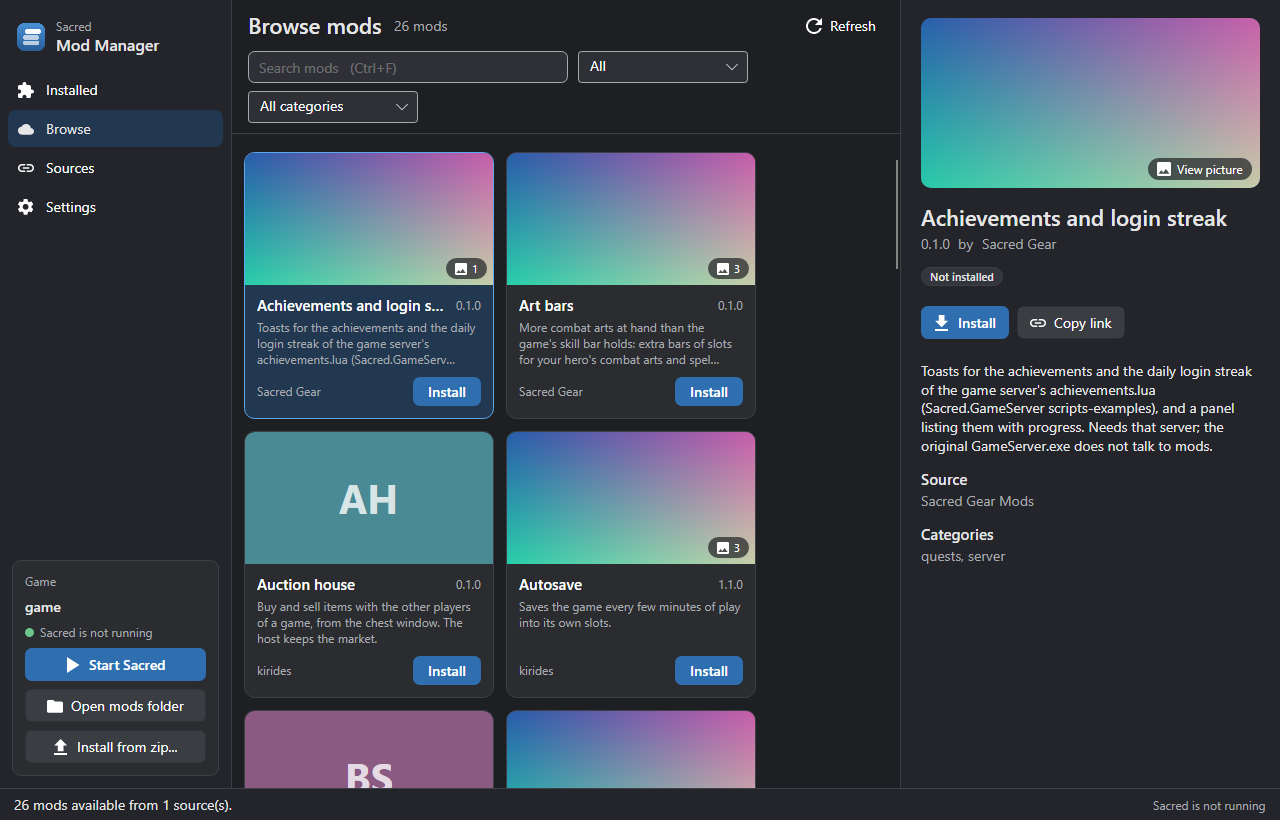
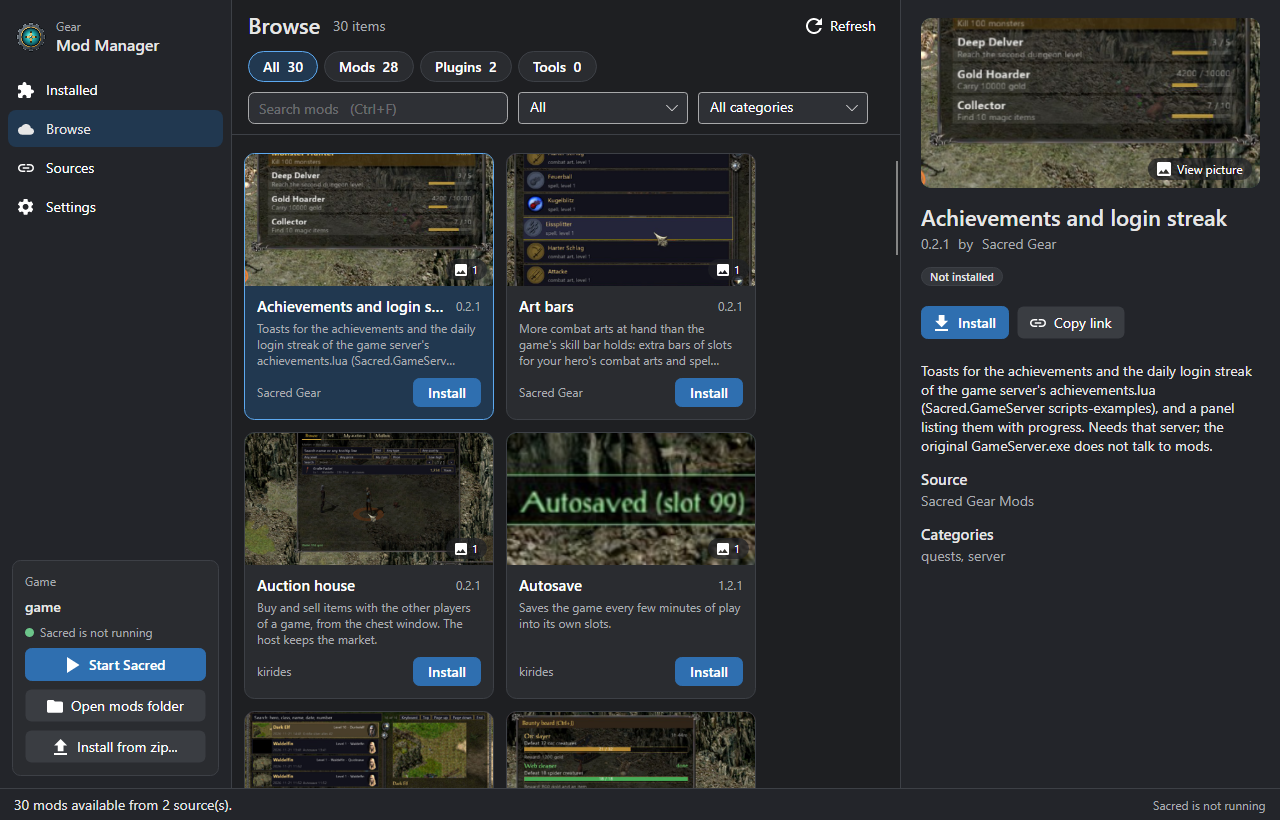
docs: beginner steps, new screenshots with real thumbnails; find the game from the manager's own folder

diff --git a/tests/SacredModManager.Tests/GameLocatorOwnFolderTests.cs b/tests/SacredModManager.Tests/GameLocatorOwnFolderTests.cs
@@ -1,0 +1,44 @@
+using SacredModManager.Core.App;
+using Xunit;
+
+namespace SacredModManager.Tests;
+
+[Collection("GameLocatorStatics")]
+public class GameLocatorOwnFolderTests
+{
+    [Fact]
+    public void AManagerThatSitsNextToSacredExeFindsTheGameWithoutBeingTold()
+    {
+        using var dir = new TempDir();
+        File.WriteAllText(dir.Combine("Sacred.exe"), "MZ");
+        string? before = GameLocator.OwnFolder;
+        try
+        {
+            GameLocator.OwnFolder = dir.Path;
+            Assert.Equal(Path.GetFullPath(dir.Path), GameLocator.Find(null));
+        }
+        finally
+        {
+            GameLocator.OwnFolder = before;
+        }
+    }
+
+    [Fact]
+    public void ASavedFolderStillWinsOverTheManagersOwn()
+    {
+        using var own = new TempDir();
+        using var saved = new TempDir();
+        File.WriteAllText(own.Combine("Sacred.exe"), "MZ");
+        File.WriteAllText(saved.Combine("Sacred.exe"), "MZ");
+        string? before = GameLocator.OwnFolder;
+        try
+        {
+            GameLocator.OwnFolder = own.Path;
+            Assert.Equal(Path.GetFullPath(saved.Path), GameLocator.Find(saved.Path));
+        }
+        finally
+        {
+            GameLocator.OwnFolder = before;
+        }
+    }
+}

diff --git a/src/SacredModManager.Core/App/GameLocator.cs b/src/SacredModManager.Core/App/GameLocator.cs
@@ -11,7 +11,7 @@ public static class GameLocator
     public static bool IsGameFolder(string? folder)
         => !string.IsNullOrWhiteSpace(folder) && Directory.Exists(folder) && File.Exists(Path.Combine(folder, "Sacred.exe"));
 
-    /// <summary>The first folder that holds Sacred.exe: the saved one, the default, the GOG registry entry, common install places.</summary>
+    /// <summary>The first folder that holds Sacred.exe: the saved one, the manager's own folder, the default, the GOG registry entry, common install places.</summary>
     public static string? Find(string? saved)
     {
         foreach (string? candidate in Candidates(saved))
@@ -25,9 +25,13 @@ public static class GameLocator
         return null;
     }
 
+    /// <summary>The folder of the manager's own program file (a copy in the game folder finds the game by itself); tests can point it elsewhere.</summary>
+    public static string? OwnFolder { get; set; } = AppContext.BaseDirectory;
+
     private static IEnumerable<string?> Candidates(string? saved)
     {
         yield return saved;
+        yield return OwnFolder; // the manager sits in the game folder (next to Sacred.exe)
         yield return DefaultFolder;
         if (OperatingSystem.IsWindows())
         {

diff --git a/README.md b/README.md
@@ -6,24 +6,28 @@ Install, update and switch on **Sacred Gear mods** for Sacred Gold with a few cl
 
 ![Browse mods](docs/images/02-browse-dark.png)
 
-## Get started
+## Get started (5 steps, no experience needed)
 
-1. **Download** the newest build from [Releases](https://github.com/kirides/sacred-mod-manager/releases):
+1. **Download.** Open the [Releases page](https://github.com/kirides/sacred-mod-manager/releases), scroll to **Assets** of the newest release and click
    `Gear-Mod-Manager-nightly-win-x64.zip` (Windows) or `Gear-Mod-Manager-nightly-linux-x64.AppImage` (Linux).
-2. **Start it.** Windows: unzip anywhere and run `Gear Mod Manager.exe`. Linux: make the AppImage executable (`chmod +x`) and run it.
-3. **Pick your Sacred folder** (the one with `Sacred.exe`) under **Settings**. It is usually found by itself.
-4. Open **Browse** and press **Install** on the mods you want. What a mod needs is installed with it.
-5. Close Sacred if it is running, press **Start Sacred**. Switch mods on and off on the **Installed** page.
+2. **Put it into your Sacred folder.** That is the folder that contains `Sacred.exe` (in GOG usually `C:\GOG Games\Sacred Gold`).
+   Unzip the download and copy everything inside, `Gear Mod Manager.exe` and the other files, into that folder.
+   (Not sure where it is? In Steam: right-click Sacred Gold, *Manage*, *Browse local files*.)
+3. **Start `Gear Mod Manager.exe`** with a double click. It finds your game by itself because it sits next to `Sacred.exe`.
+   If Windows says "Windows protected your PC": click **More info**, then **Run anyway** (the program is new and not signed). On Linux the AppImage can live anywhere: make it executable (`chmod +x`), run it, and pick your Sacred folder under **Settings**.
+4. **Click Browse, then Install.** First the tab **Plugins**: install *Sacred-Bild* and *Sacred Gear*. Then the tab **Mods**: install what you like.
+   Everything a mod needs is installed with it.
+5. **Close Sacred if it runs, then press Start Sacred** (bottom left). Switch mods on and off on the **Installed** page.
 
-## Sacred-Bild, Sacred Gear and the mods, all at once
+![The tab Plugins in Browse](docs/images/09-browse-plugins-dark.png)
 
-The mods, **Sacred-Bild** (the new renderer, `ddraw.dll`) and **Sacred Gear** (`SacredGear.dll`, which the mods need) come from *sources*. One source brings all three:
+## Sacred-Bild, Sacred Gear and the mods
 
-1. Open **Sources**, paste `https://github.com/kirides/sacred-bild` and press **Add**.
-   (Or click an **install banner**, see below: the manager opens, asks "Add this mod source?", press **Add source**.)
-2. Open **Browse**. The tab **Plugins** shows *Sacred-Bild* and *Sacred Gear*, the tab **Mods** shows all the Gear mods. (The Sacred-Bild list points to the list of the mods, the manager follows it by itself.)
-3. Install the two plugins first, then the mods you like. A plugin copies its file next to `Sacred.exe`; a file you already had (your own `ddraw.dll`) is saved and comes back when you remove the plugin.
-4. Close Sacred if it runs, press **Start Sacred**.
+The manager comes with two *sources* already added: **Sacred-Bild** (the new renderer, `ddraw.dll`) with **Sacred Gear** (`SacredGear.dll`, which the mods need) and the **Gear mods**.
+That is why Browse is full on the first start. A plugin copies its file next to `Sacred.exe`; a file you already had (your own `ddraw.dll`) is saved and comes back when you remove the plugin.
+
+Want mods from somebody else? Open **Sources**, paste the address of their mod list (for example a GitHub page like `https://github.com/someone/their-mods`) and press **Add**.
+(Or click an **install banner**, see below: the manager opens, asks "Add this mod source?", press **Add source**.)
 
 **What is an install banner?** A button or link on a web page (`gear-mod-manager://...`) that says "add this source" or "install this mod". Your browser asks to open Gear Mod Manager,
 and the manager asks you again before it does anything, so nothing happens behind your back. It works after you started the manager once (it registers itself for these links).
@@ -33,13 +37,9 @@ Page authors: [how to make a banner](docs/Links.md#install-banners-for-page-auth
 
 A blue number on **Browse** means updates are waiting: open it and press **Update all**. Made a mistake? **Ctrl+Z** undoes it.
 
-## More mods
-
-Open **Sources**, paste the address of a mod list (for example a GitHub page like `https://github.com/kirides/sacred-gear-mods`) and press **Add**.
-The Sacred Gear mods are already there. A `gear-mod-manager://` link on a web page does the same with one click.
-
 ## Good to know
 
+* A blue banner at the top tells you when a new version of the manager exists; **Click here** opens the download page (nothing is installed behind your back).
 * Close Sacred before you change mods; the manager tells you if it is still running.
 * Updates only overwrite files, they never delete anything. Your saves and settings stay where they are.
 * Every change keeps a backup, so you can go back.
